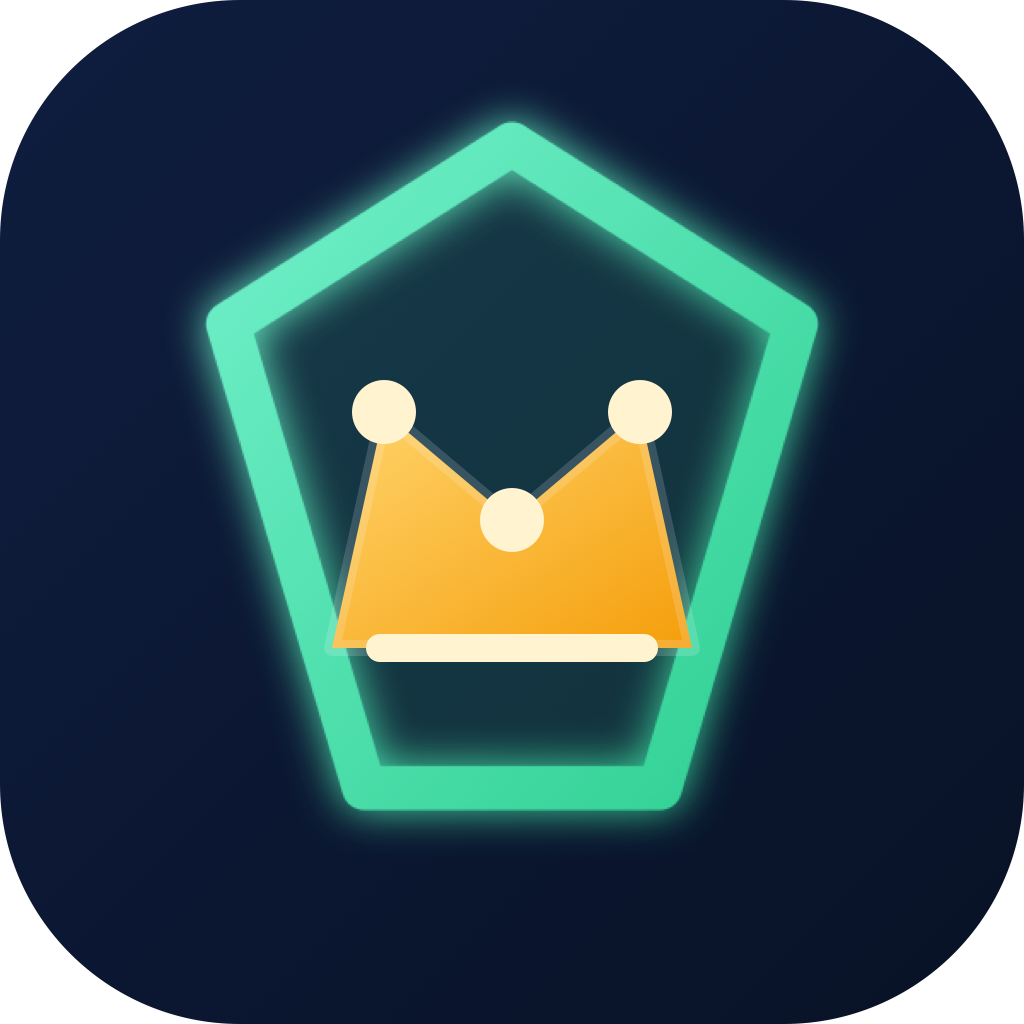
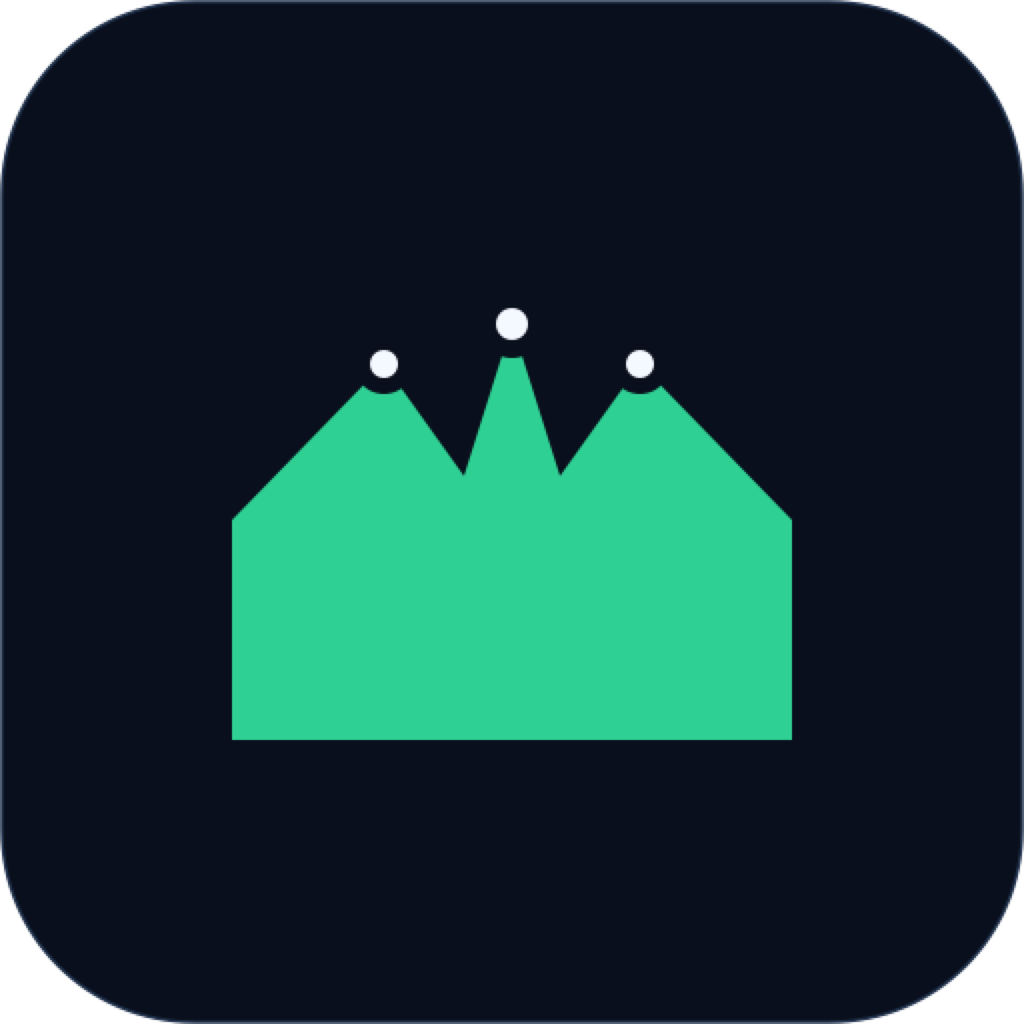
Add PWA support — installable on Android and iOS
Service worker (public/sw.js):
- Cache-first strategy for static assets (HTML, JS, CSS, icons)
- Network-only for all /api/* routes (never serve stale game data)
- Offline fallback: serves cached app shell on navigation requests
- Auto-cleans old caches on SW version bump

manifest.json:
- Added 192×192 and 512×512 PNG icons (any + maskable)
- Added orientation: portrait, lang: en-US, categories
- Added app shortcuts: Queue Up and My Wallet deep links

index.html:
- apple-touch-icon for iOS home screen
- apple-mobile-web-app-capable + status bar meta tags
- SW registration script at bottom of body

Brand assets:
- Redesigned icon and logo to match site aesthetics
  (flat teal crown, #090f1c dark navy, IBM Plex Mono wordmark)
- Added betroyale-icon-192.png and betroyale-icon-512.png

diff --git a/public/sw.js b/public/sw.js
@@ -1,0 +1,76 @@
+// BetRoyale Service Worker
+// Cache-first for static assets · Network-first for API calls
+
+const CACHE_VERSION = 'v1';
+const CACHE_NAME = `betroyale-${CACHE_VERSION}`;
+
+const STATIC_ASSETS = [
+  '/',
+  '/app.js',
+  '/styles.css',
+  '/manifest.json',
+  '/favicon.svg',
+  '/brand/betroyale-icon-192.png',
+  '/brand/betroyale-icon-512.png',
+];
+
+// ── Install: pre-cache all static assets ────────────────────────────────────
+self.addEventListener('install', (event) => {
+  event.waitUntil(
+    caches.open(CACHE_NAME).then((cache) => cache.addAll(STATIC_ASSETS))
+  );
+  // Take over immediately without waiting for old SW to expire
+  self.skipWaiting();
+});
+
+// ── Activate: remove stale caches from old versions ─────────────────────────
+self.addEventListener('activate', (event) => {
+  event.waitUntil(
+    caches.keys().then((keys) =>
+      Promise.all(
+        keys
+          .filter((key) => key.startsWith('betroyale-') && key !== CACHE_NAME)
+          .map((key) => caches.delete(key))
+      )
+    )
+  );
+  // Claim all open clients so the new SW takes effect without a reload
+  self.clients.claim();
+});
+
+// ── Fetch: routing strategy ──────────────────────────────────────────────────
+self.addEventListener('fetch', (event) => {
+  const { request } = event;
+  const url = new URL(request.url);
+
+  // Only handle GET requests from our own origin
+  if (request.method !== 'GET' || url.origin !== self.location.origin) {
+    return;
+  }
+
+  // API calls: network-only (never serve stale auth/game data from cache)
+  if (url.pathname.startsWith('/api/')) {
+    return;
+  }
+
+  // Static assets: cache-first, fall back to network and cache the response
+  event.respondWith(
+    caches.match(request).then((cached) => {
+      if (cached) return cached;
+
+      return fetch(request).then((response) => {
+        // Only cache valid responses
+        if (response && response.ok && response.type === 'basic') {
+          const clone = response.clone();
+          caches.open(CACHE_NAME).then((cache) => cache.put(request, clone));
+        }
+        return response;
+      }).catch(() => {
+        // Offline fallback: if it's a navigation request, serve the cached shell
+        if (request.mode === 'navigate') {
+          return caches.match('/');
+        }
+      });
+    })
+  );
+});

diff --git a/public/index.html b/public/index.html
@@ -24,6 +24,11 @@
     <meta name="twitter:image" content="/favicon.svg" />
 
     <link rel="icon" type="image/svg+xml" href="/favicon.svg" />
+    <link rel="apple-touch-icon" href="/brand/betroyale-icon-192.png" />
+    <meta name="mobile-web-app-capable" content="yes" />
+    <meta name="apple-mobile-web-app-capable" content="yes" />
+    <meta name="apple-mobile-web-app-status-bar-style" content="black-translucent" />
+    <meta name="apple-mobile-web-app-title" content="BetRoyale" />
     <link rel="preconnect" href="https://fonts.googleapis.com" />
     <link rel="preconnect" href="https://fonts.gstatic.com" crossorigin />
     <link
@@ -1472,5 +1477,16 @@
     </div>
 
     <script src="app.js"></script>
+
+    <!-- PWA: register service worker -->
+    <script>
+      if ('serviceWorker' in navigator) {
+        window.addEventListener('load', () => {
+          navigator.serviceWorker
+            .register('/sw.js')
+            .catch((err) => console.warn('SW registration failed:', err));
+        });
+      }
+    </script>
   </body>
 </html>
